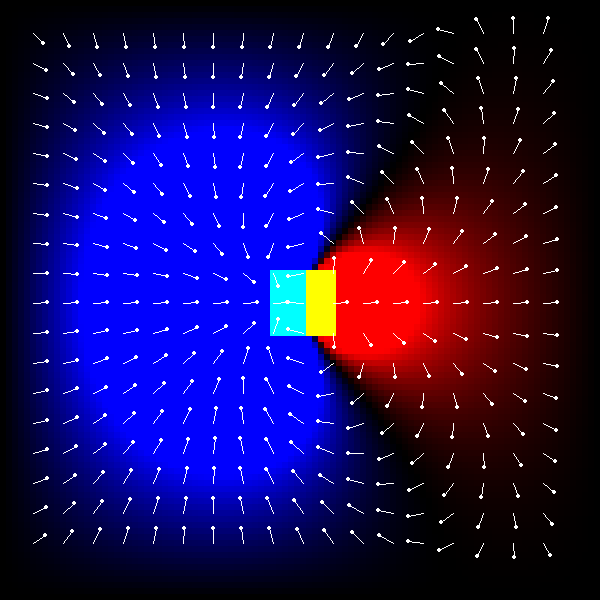
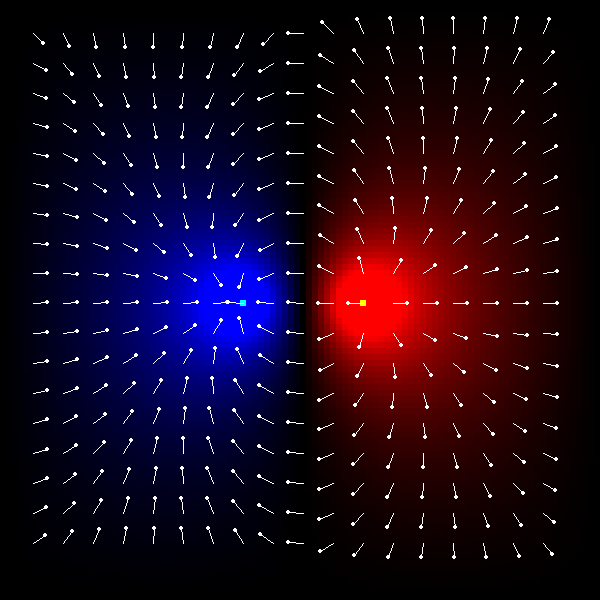
some fixes -- didnt write the density func nicely :(

diff --git a/README.md b/README.md
@@ -10,8 +10,13 @@ It features two distinct modes:
 
 ## Sample Results
 
-### Analytic Solver Output (Dipole)
+### Analytic Solver Output
+
+*Electric Dipole (+q, -q)*
 ![Analytic Solver Dipole](sample_results/analytic_dipole.png)
+
+*Same Charge Pair (+q, +Q)*
+![Analytic Solver Same Charge](sample_results/analytic_same_charge.png)
 
 ### Real-Time Pygame Output (Dipole)
 *Potential Heatmap (Left) and E-Field Magnitude (Right)*